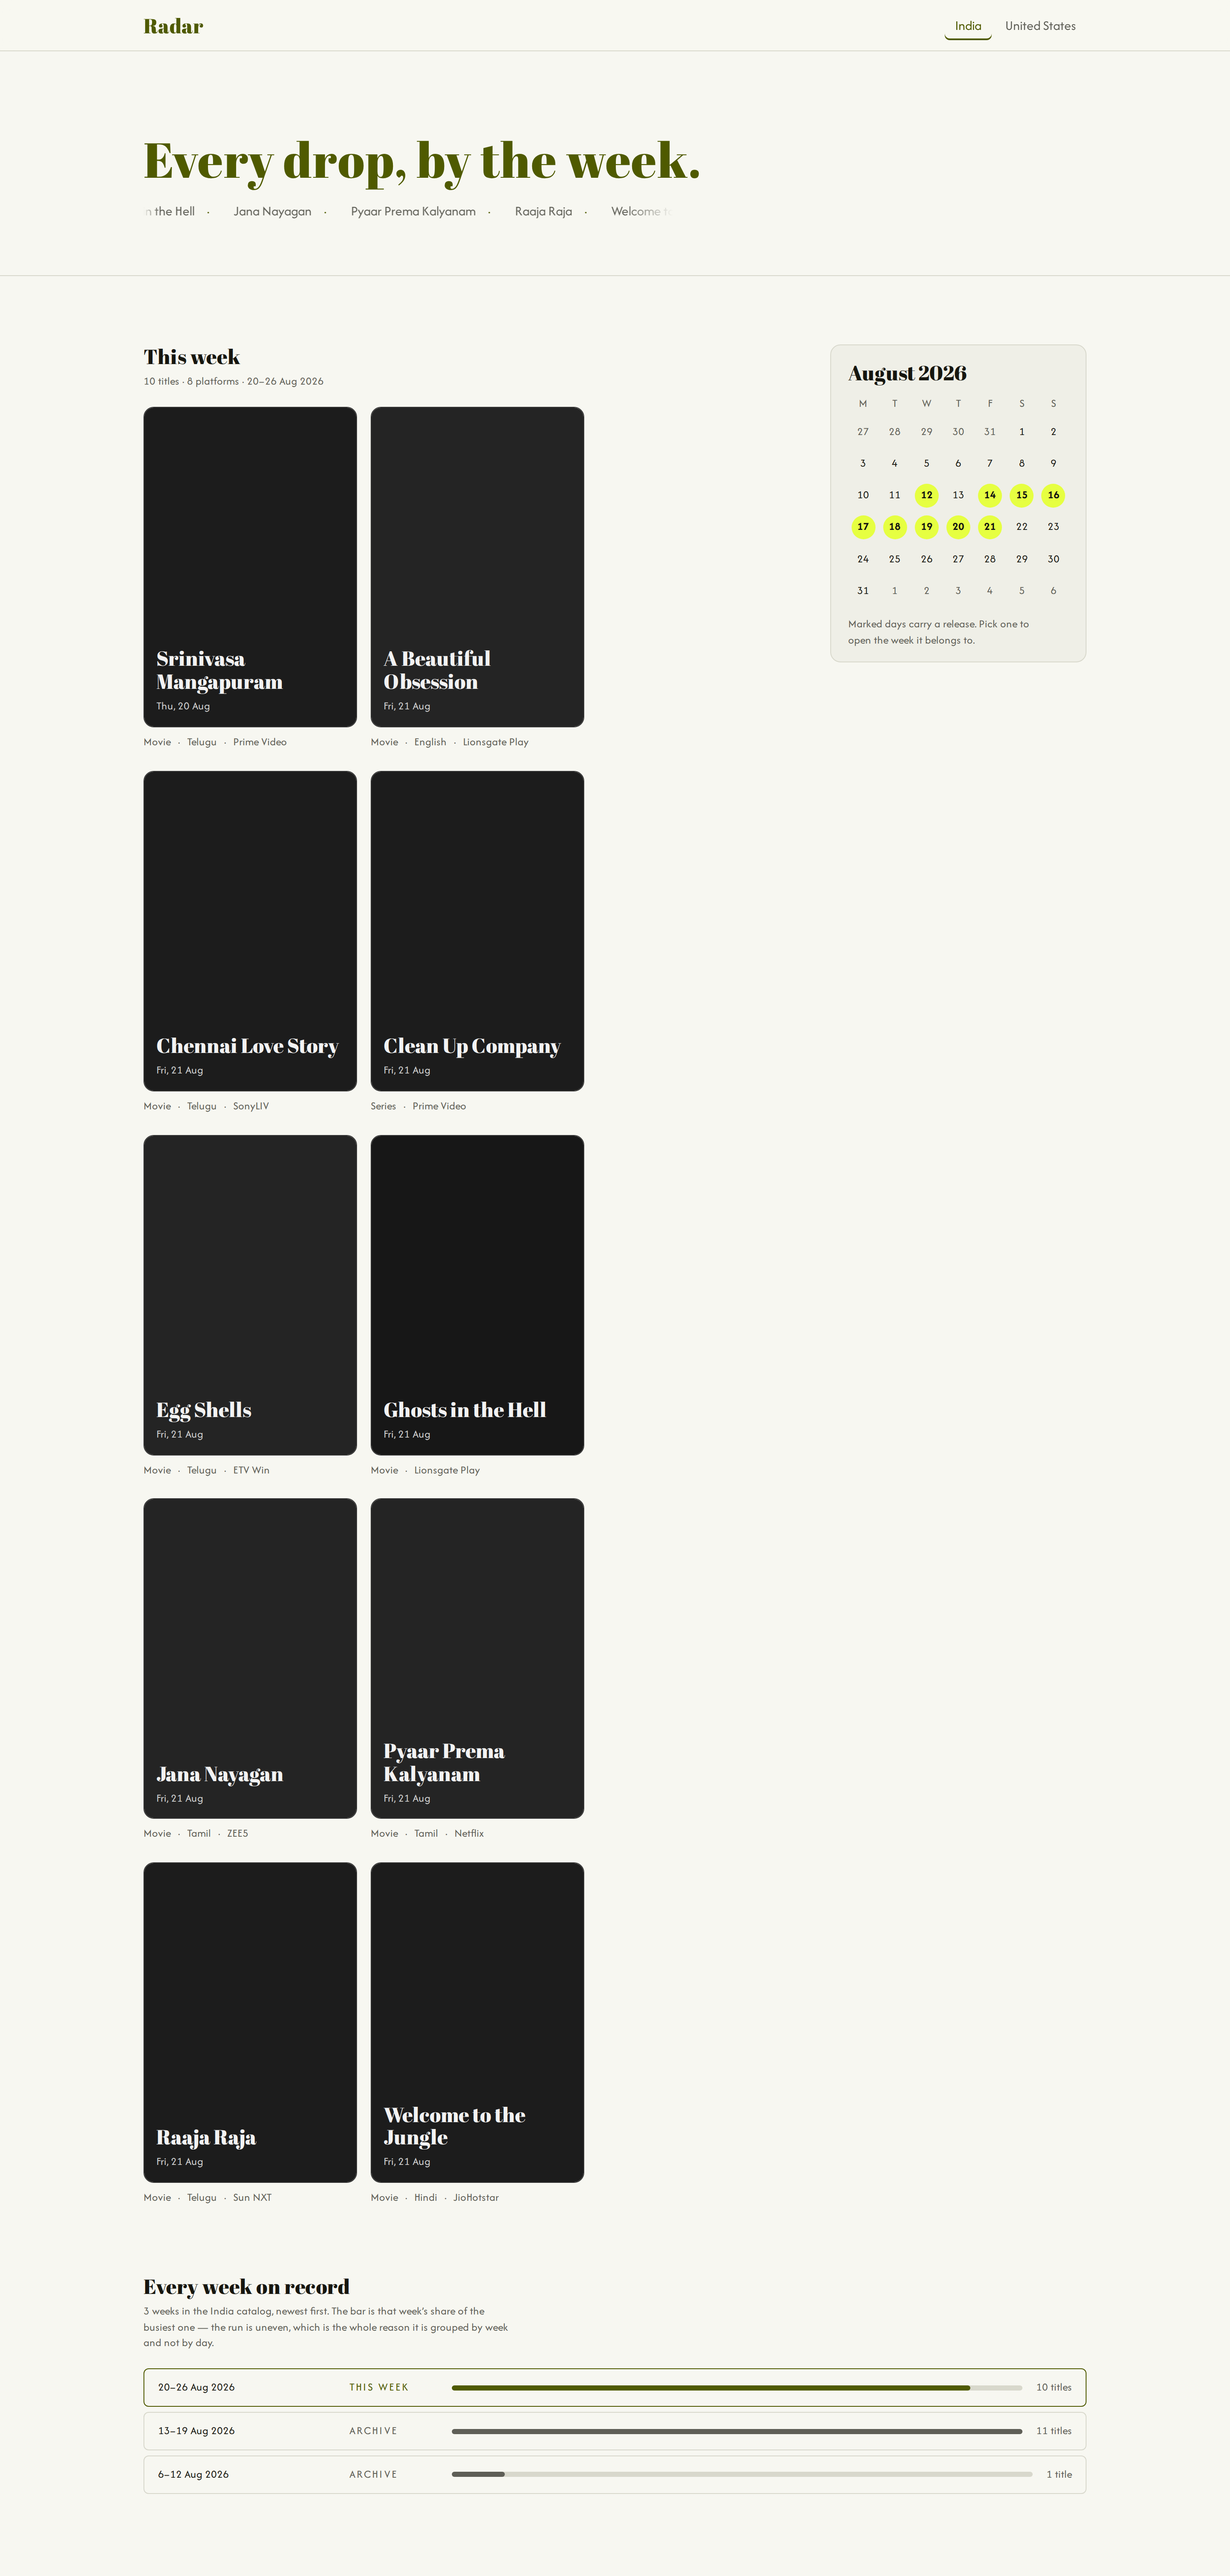
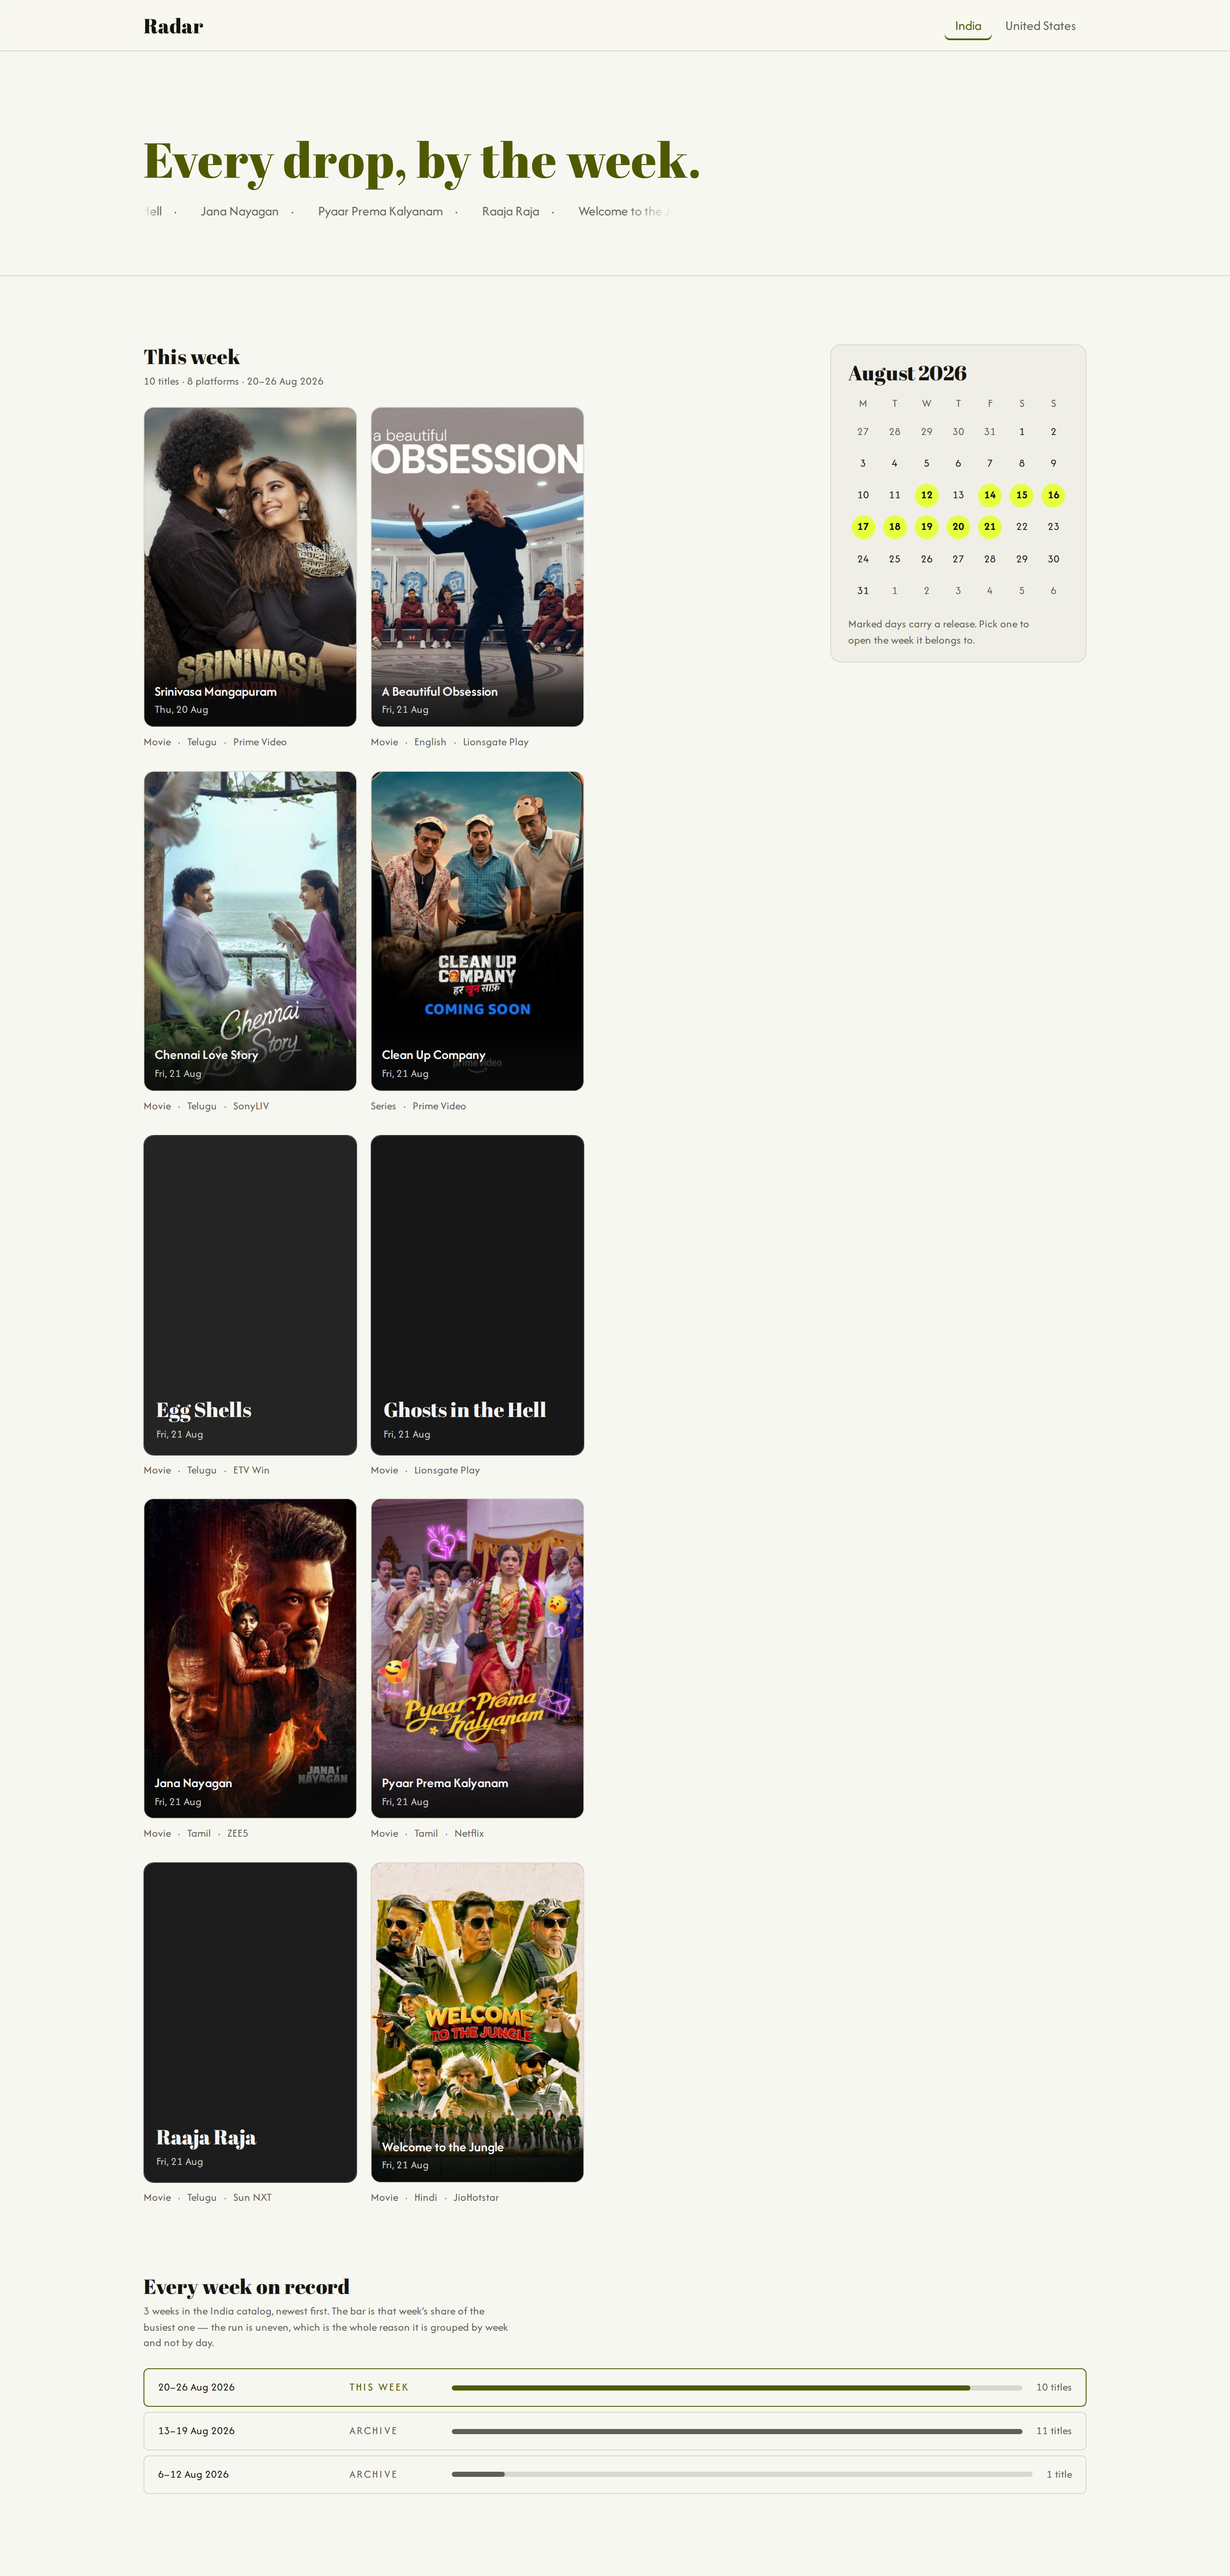
artwork for five of the ten artless rows, and a way to see it
Outer Banks joins the overlay - the show, labelled approximate because the
row is its fifth season. Egg Shells, Raaja Raja, Ghosts in the Hell, Bharat
Bhagya Vidhaata and Bigg Boss Agnipariksha keep their tiles: TMDB has no
match for the first three, a 2002 film for the fourth, and for the fifth
only key art with a different date set into the image.

VITE_POSTER_BASE lets the harvested files be served locally. Every screenshot
review in this repo so far ran against a page whose artwork had silently
fallen back to the tile, because this sandbox cannot reach image.tmdb.org -
the same trap as the unreachable font host, where the instrument cannot tell
absent from designed-that-way. The v7 shots are recaptured with real posters.

verify:v7 gains a per-title artwork claim and a decoded check that only binds
when the artwork is same-origin, so it never goes red for the network. It was
negative-tested twice: breaking the overlay proved nothing, because script and
page read the same overlay, and only breaking the page caught it.

Claude-Session: https://claude.ai/code/session_01VBYoQ2v3tXK8rW9qdDKfDp

Changed region(s): [[0.0938, 0.1559, 0.5, 0.4366], [0.0938, 0.5614, 0.5, 0.8421]]

diff --git a/lab/src/feed/feed.test.js b/lab/src/feed/feed.test.js
@@ -4,6 +4,7 @@ import { validateRelease, isRealDate, humanisePlatform } from './schema.js'
 import { normaliseFeed, derivedPlatforms } from './normalise.js'
 import { loadFeed, forRegion, titlesInBothRegions, regionsIn } from './index.js'
 import { CURATED } from './sources/curated.js'
+import { ARTWORK, applyArtwork } from './sources/artwork.js'
 import { mapTmdbRecord, discoverUrl, PROVIDERS } from './sources/tmdb.js'
 
 const valid = {
@@ -164,6 +165,55 @@ test('forRegion is date-ordered and covers both catalogs', () => {
 
 test('cross-region titles are found through the feed, not the raw table', () => {
   expect(titlesInBothRegions(loadFeed())).toContain('Lanterns')
+})
+
+/* -------------------------------------------------------------- artwork --- */
+
+test('the overlay fills artwork the sources never carried', () => {
+  const feed = loadFeed()
+  for (const [id, art] of Object.entries(ARTWORK)) {
+    const release = feed.releases.find((r) => r.id === id)
+    expect(release, id).toBeDefined()
+    expect(release.poster, id).toBe(art.poster)
+    expect(release.tmdbId, id).toBe(art.tmdbId)
+  }
+  // and the frozen table v0–v6 render is untouched by all of it
+  for (const id of Object.keys(ARTWORK)) {
+    const row = RELEASES.find((r) => r.id === id)
+    if (row) expect(row.poster, `${id} must stay null in the snapshot`).toBe(null)
+  }
+})
+
+test('the overlay adds, never overwrites', () => {
+  const { records } = applyArtwork(
+    [{ id: 'a', poster: 'already.jpg' }, { id: 'b', poster: null }],
+    { a: { poster: 'overlay.jpg' }, b: { poster: 'overlay.jpg' } },
+  )
+  expect(records.map((r) => r.poster)).toEqual(['already.jpg', 'overlay.jpg'])
+})
+
+test('an overlay entry for an id the feed no longer has is reported, not silent', () => {
+  const { unused } = applyArtwork([{ id: 'a', poster: null }], {
+    a: { poster: 'x.jpg' },
+    gone: { poster: 'y.jpg' },
+  })
+  expect(unused).toEqual(['gone'])
+  // the live overlay has to be clean, or the page is carrying dead data
+  expect(loadFeed().artworkUnused).toEqual([])
+})
+
+test('an injected feed is passed through untouched by the overlay', () => {
+  const id = Object.keys(ARTWORK)[0]
+  globalThis.__FEED__ = [
+    { id, title: 'Injected', platform: 'netflix', region: 'IN', date: '2026-08-21', type: 'movie' },
+  ]
+  try {
+    const feed = loadFeed()
+    expect(feed.sourceId).toBe('injected')
+    expect(feed.releases[0].poster).toBe(null)
+  } finally {
+    delete globalThis.__FEED__
+  }
 })
 
 /* ---------------------------------------------------------------- tmdb --- */

diff --git a/lab/src/feed/sources/artwork.js b/lab/src/feed/sources/artwork.js
@@ -25,8 +25,14 @@
 //   cw-eggshells six "Eggshells", none of them a 2026 Telugu film.
 //   cw-raajaraja The Rajasaab, Run Raja Run, Seemaraja, Rajakili, Rajavamsam —
 //                a shelf of near-rhymes and no match.
-//   cw-ghosts    TMDB rate-limited the runner (429) before this one; retried.
-//   cw-outerbanks same.
+//   cw-ghosts    Ghost in the Shell twice, Ghost in the Cell, two haunted-
+//                tower films. Nothing that is this title.
+//
+// The first pass recorded `cw-ghosts` and `cw-outerbanks` as "no results at
+// all" when TMDB had in fact answered 429 with an empty body. A throttle and
+// an absence are the same shape downstream — the same trap as a fetch where
+// every request failed reading as a week with no releases — so the runner now
+// backs off and retries, and Outer Banks turned out to be there all along.
 //
 // The two sport fixtures are not searched at all: a cricket tour has no poster
 // to find, and the tile is the honest surface for it.
@@ -42,6 +48,10 @@ export const ARTWORK = {
   'cw-jungle': { tmdbId: 1169516, poster: '1JlfUuvvX5xLP2LIDah4JhWUtTx.jpg' },
   // exact title, exact date, and the artwork itself reads "prime video"
   'cw-cleanup': { tmdbId: 332299, poster: 'sVMcco0EdfDvFpyPlHU9n6RPrQj.jpg' },
+  // the show, not the season — TMDB indexes "Outer Banks", and the row is its
+  // fifth season. The key art carries no date to argue with the card, which
+  // is the line an approximation has to clear; the card labels it as one.
+  'cw-outerbanks': { tmdbId: 100757, poster: 'ovDgO2LPfwdVRfvScAqo9aMiIW.jpg', posterApprox: true },
 }
 
 /**

diff --git a/lab/src/data/releases.js b/lab/src/data/releases.js
@@ -16,6 +16,19 @@ export const PLATFORMS = {
 
 export const POSTER_BASE = 'https://image.tmdb.org/t/p/w500'
 
+/**
+ * Where poster files are read from. `VITE_POSTER_BASE` points it somewhere
+ * else — the reason it exists is that this development sandbox cannot reach
+ * image.tmdb.org at all, so every screenshot review ran against a page whose
+ * artwork had silently fallen back to the designed tile. Serving the harvested
+ * files locally (`VITE_POSTER_BASE=/tmdb pnpm dev`) is what makes `pnpm shoot`
+ * show the page a reader with an ordinary network sees. Same class of trap as
+ * the unreachable font host: the review instrument cannot tell "absent" from
+ * "designed that way".
+ */
+const posterBase = () =>
+  (typeof import.meta.env !== 'undefined' && import.meta.env.VITE_POSTER_BASE) || POSTER_BASE
+
 /** Full poster URL, or null when no artwork exists. Cards must handle null.
  *  A poster that is already a resolved URI (data: or https:) passes through —
  *  the published sandbox preview embeds artwork as data URIs at bundle time,
@@ -25,7 +38,7 @@ export function posterUrl(release) {
   if (release.poster.startsWith('data:') || release.poster.startsWith('http')) {
     return release.poster
   }
-  return `${POSTER_BASE}/${release.poster}`
+  return `${posterBase()}/${release.poster}`
 }
 
 // Week of 15–21 Aug 2026. Sources: FilmiBeat, myvi.in, FilmyChill, Boston.com.
